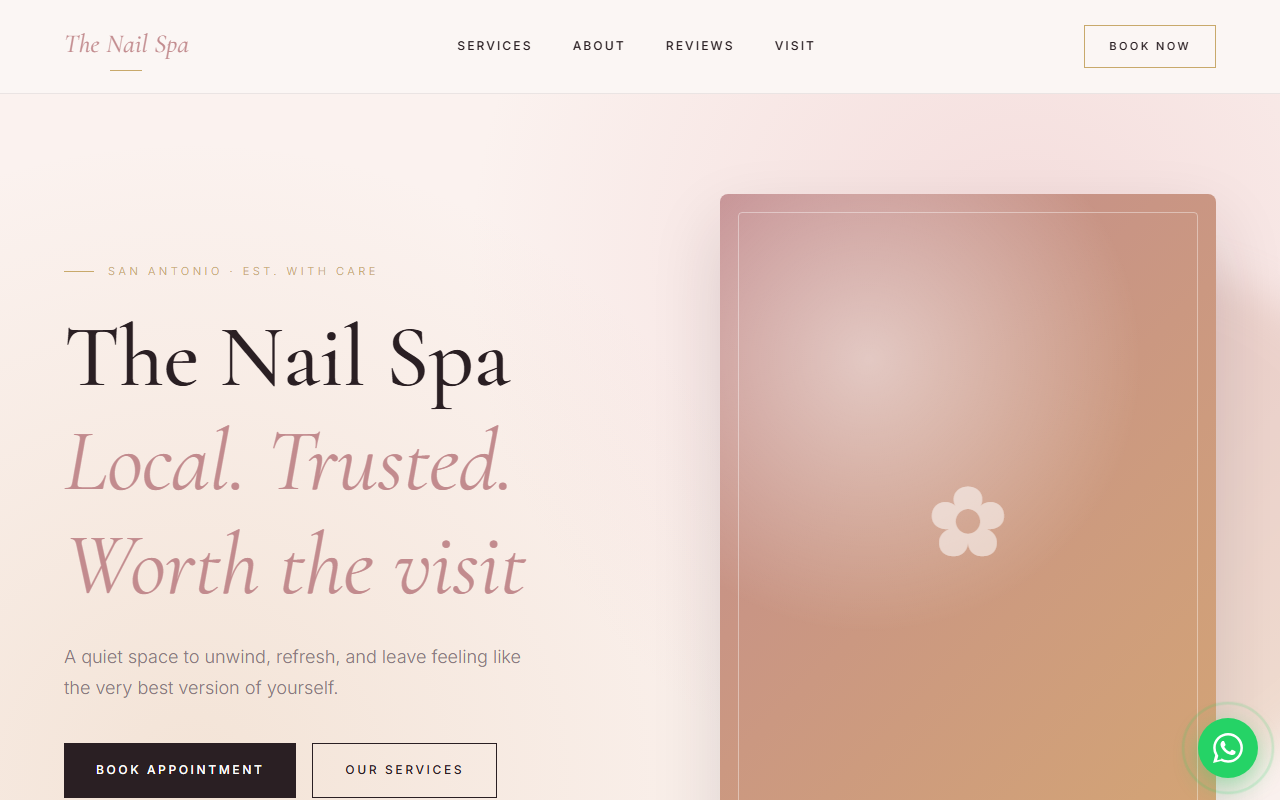
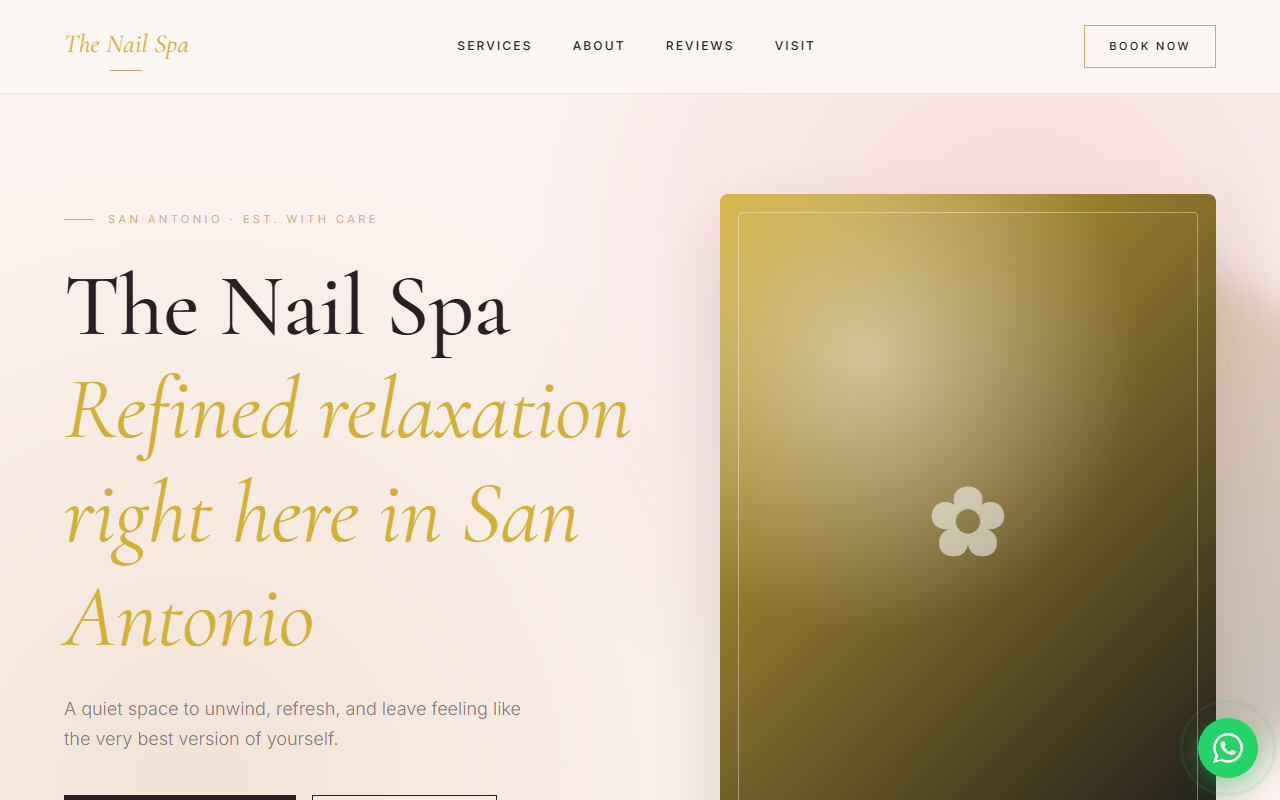
Add demo: the-nail-spa

diff --git a/the-nail-spa/index.html b/the-nail-spa/index.html
@@ -4,14 +4,14 @@
 <meta charset="UTF-8" />
 <meta name="viewport" content="width=device-width, initial-scale=1.0" />
 <title>The Nail Spa — San Antonio</title>
-<meta name="description" content="The Nail Spa — locally owned and serving the community with care. Visit us, give us a call, or book today." />
+<meta name="description" content="Experience refined relaxation and precision nail care at The Nail Spa in San Antonio. Our expert technicians offer luxury manicures, pedicures, and gel polish." />
 <link rel="preconnect" href="https://fonts.googleapis.com">
 <link rel="preconnect" href="https://fonts.gstatic.com" crossorigin>
 <link href="https://fonts.googleapis.com/css2?family=Cormorant+Garamond:ital,wght@0,400;0,500;0,600;1,400&family=Inter:wght@300;400;500;600&display=swap" rel="stylesheet">
 <style>
   :root {
-    --primary: #C28B8E;
-    --secondary: #D4A574;
+    --primary: #d4af37;
+    --secondary: #1a1a1a;
     --blush: #fbf2ef;
     --pearl: #faf6f3;
     --ink: #2a1f23;
@@ -329,7 +329,7 @@
   <div class="hero-inner">
     <div class="hero-text">
       <div class="eyebrow">San Antonio · Est. with care</div>
-      <h1>The Nail Spa<br/><em>Local. Trusted. Worth the visit</em></h1>
+      <h1>The Nail Spa<br/><em>Refined relaxation right here in San Antonio</em></h1>
       <p class="lede">A quiet space to unwind, refresh, and leave feeling like the very best version of yourself.</p>
       <div class="hero-actions">
         <a href="tel:12108248590" class="btn btn-primary">Book Appointment</a>
@@ -351,19 +351,19 @@
       <div class="service-card">
         <span class="service-num">— No. 01 —</span>
         <div class="service-icon">✂</div>
-        <h3>Signature service</h3>
+        <h3>precision manicures</h3>
         <p>A consultation, a fresh perspective, and a finish that's unmistakably you.</p>
       </div>
       <div class="service-card">
         <span class="service-num">— No. 02 —</span>
         <div class="service-icon">❋</div>
-        <h3>What we're known for</h3>
+        <h3>luxury pedicures</h3>
         <p>Premium products, gentle technique, and results that hold up beautifully.</p>
       </div>
       <div class="service-card">
         <span class="service-num">— No. 03 —</span>
         <div class="service-icon">✿</div>
-        <h3>By appointment</h3>
+        <h3>gel polish</h3>
         <p>An hour just for you — to relax, refresh, and walk out glowing.</p>
       </div>
     </div>
